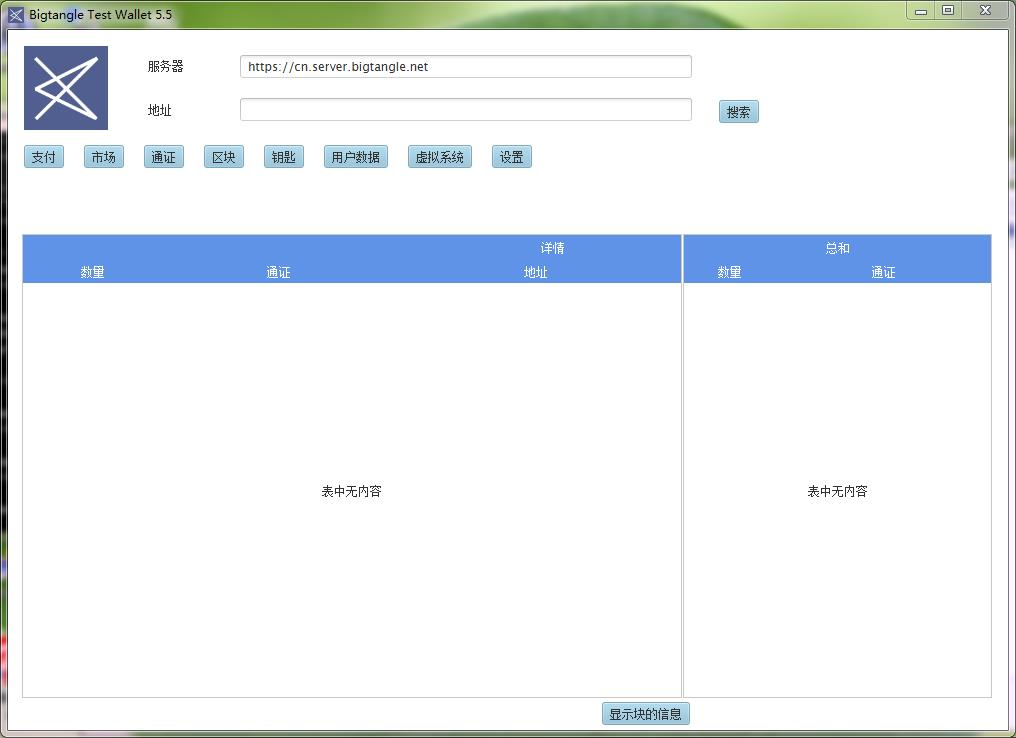
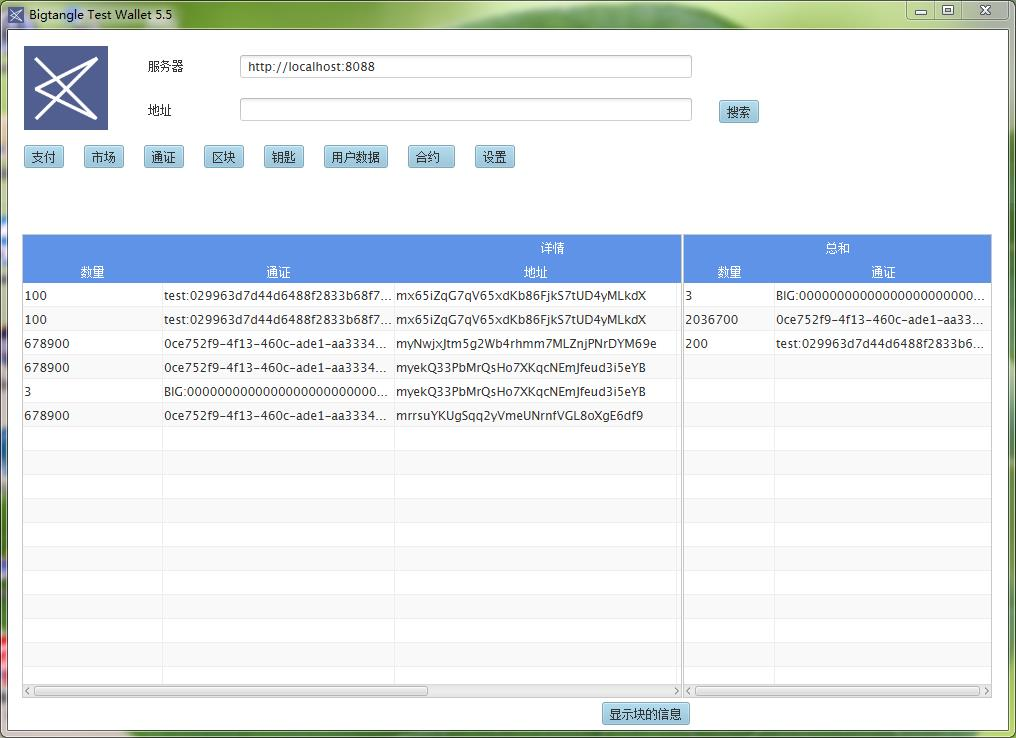
UI check version ;help

diff --git a/website/html/cn/help.html b/website/html/cn/help.html
@@ -7,6 +7,8 @@
 <body>
 	<div>
 		1.从bigtangle.net下载自己语言的程序压缩包，如bigtangle.zip,然后解压缩该压缩文件，双击bigtangle.exe来启动程序。<br />
+		如果当前客户端版本不是最新的话，会弹出下载最新版本的提示框。<br/><img alt="" src="img/version.jpg" /><br />
+		点击“确认”按钮后，进入主界面<br/>
 		<img alt="" src="img/main.jpg" /><br />
 		在程序主界面里，可以看到，分别有“支付”、“市场”、“通证”、“区块”、“钥匙”、“用户数据”、“合约”及“设置”等功能按钮，点击相关按钮，以打开其对应界面。在主界面下方的表格，显示的是我已有通证的记录。点击“搜索”按钮更新该表格的记录。点击“显示块的信息”按钮，弹出每条记录的内容。<br />
 	</div>
@@ -99,7 +101,7 @@
 		点击“上传文档”，可以在选择一个文档后，将其上传到服务器。在选择一个文档记录后，点击“下载”来下载该文档。<br />
 	</div>
 	<div>
-	8.在主界面点击“虚拟系统”,进入其界面。<br/>
+	8.在主界面点击“合約”,进入其界面。<br/>
 		<img alt="" src="img/vos.jpg" /><br />
 		表格显示的是当前的虚拟系统（合约）的记录<br />
 	</div>
@@ -112,6 +114,7 @@
 	9.在主界面点击“设置”进入其界面<br />
 		<img alt="" src="img/setting.jpg" /><br />
 		输入新密码后，点击“设置密码”完成操作。
-	</div>
+	<br>在成功设置密码后，将程序关闭后，再次启动程序时，需要先输入密码后，才能使用各项功能。<br>
+	<img alt="" src="img/password.jpg" /><br /></div>
 </body>
 </html>

diff --git a/bigtangle-wallet/src/main/java/net/bigtangle/ui/wallet/MainController.java b/bigtangle-wallet/src/main/java/net/bigtangle/ui/wallet/MainController.java
@@ -127,6 +127,16 @@ public class MainController {
 
     @FXML
     public void initialize() {
+        try {
+            String version = checkVersion();
+            int latestVersion = Integer.parseInt(version);
+            int clientVersion = Integer.parseInt(Main.version);
+            if (clientVersion < latestVersion) {
+                GuiUtils.informationalAlert("", Main.getText("needUpdate"), "");
+            }
+        } catch (Exception e) {
+            GuiUtils.crashAlert(e);
+        }
         if (bitcoin.wallet().isEncrypted()) {
             searchPane.setVisible(false);
             serverPane.setVisible(false);
@@ -141,6 +151,17 @@ public class MainController {
         Server.setText(Main.IpAddress);
         // IPPort.setText(Main.port);
         initTableView();
+    }
+
+    public String checkVersion() throws Exception {
+        String CONTEXT_ROOT = Main.getContextRoot();
+        HashMap<String, Object> requestParam = new HashMap<String, Object>();
+        String resp = OkHttp3Util.postString(CONTEXT_ROOT + "version",
+                Json.jsonmapper().writeValueAsString(requestParam));
+        HashMap<String, String> result = Json.jsonmapper().readValue(resp, HashMap.class);
+        String version = result.get("version");
+        return version;
+
     }
 
     @SuppressWarnings("unchecked")

diff --git a/bigtangle-wallet/src/main/java/net/bigtangle/ui/wallet/Main.java b/bigtangle-wallet/src/main/java/net/bigtangle/ui/wallet/Main.java
@@ -98,7 +98,7 @@ import net.bigtangle.wallet.DeterministicSeed;
 public class Main extends Application {
     public static NetworkParameters params = UnitTestParams.get();
     public static final String APP_NAME = "Bigtangle Test Wallet 5.5";
-
+    public static final String version = "03";
     public static String keyFileDirectory = ".";
     public static String keyFilePrefix = "bigtangle";
     public static WalletAppKit bitcoin;
@@ -126,8 +126,9 @@ public class Main extends Application {
     private static final Logger log = LoggerFactory.getLogger(Main.class);
 
     public static List<String> userdataList = new ArrayList<String>();
-     //TODO as instance variable, not static 
-    public static TokenInfo tokenInfo ;
+    // TODO as instance variable, not static
+    public static TokenInfo tokenInfo;
+
     @Override
     public void start(Stage mainWindow) throws Exception {
         try {
